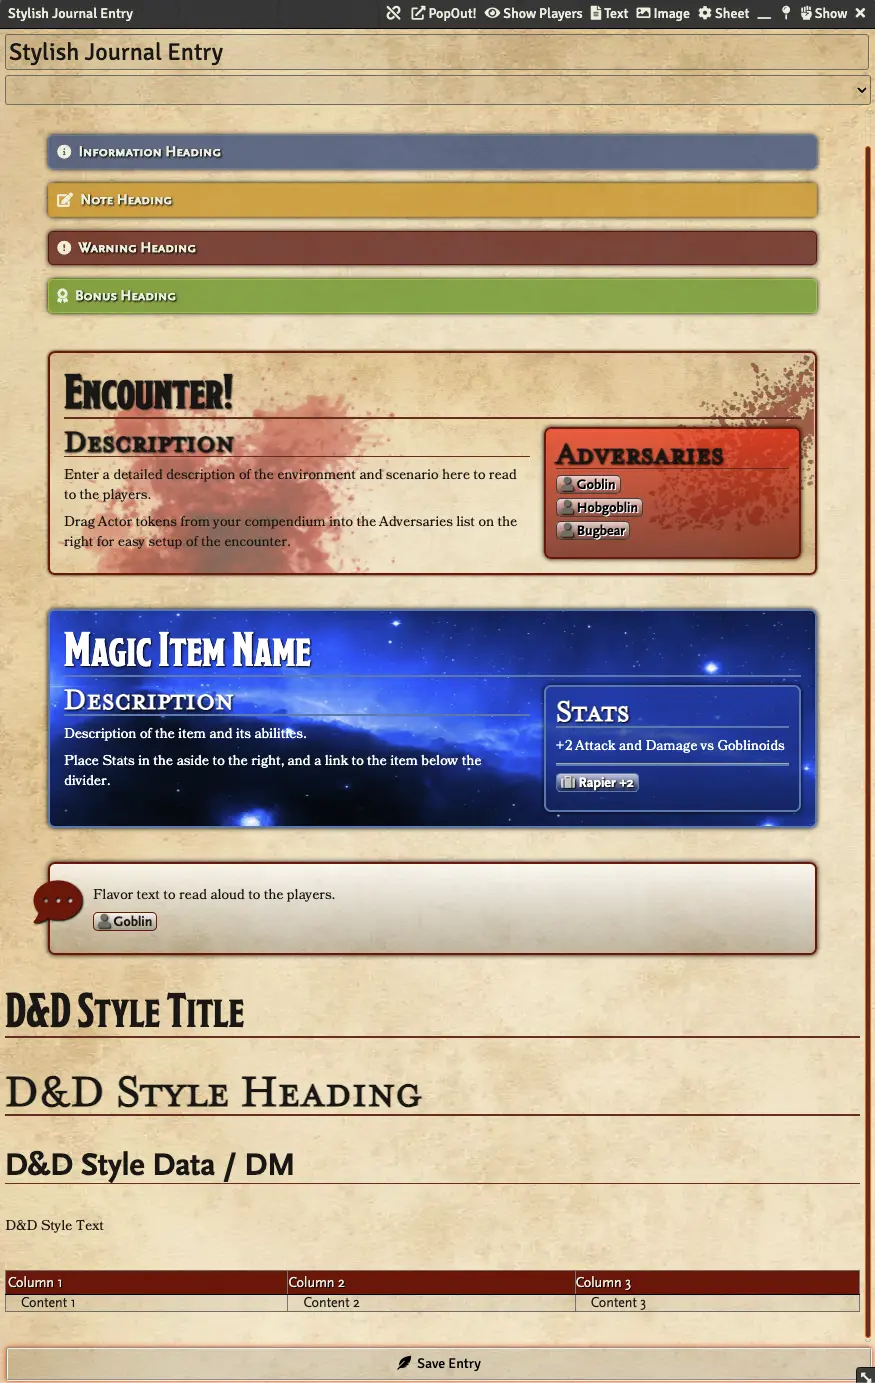
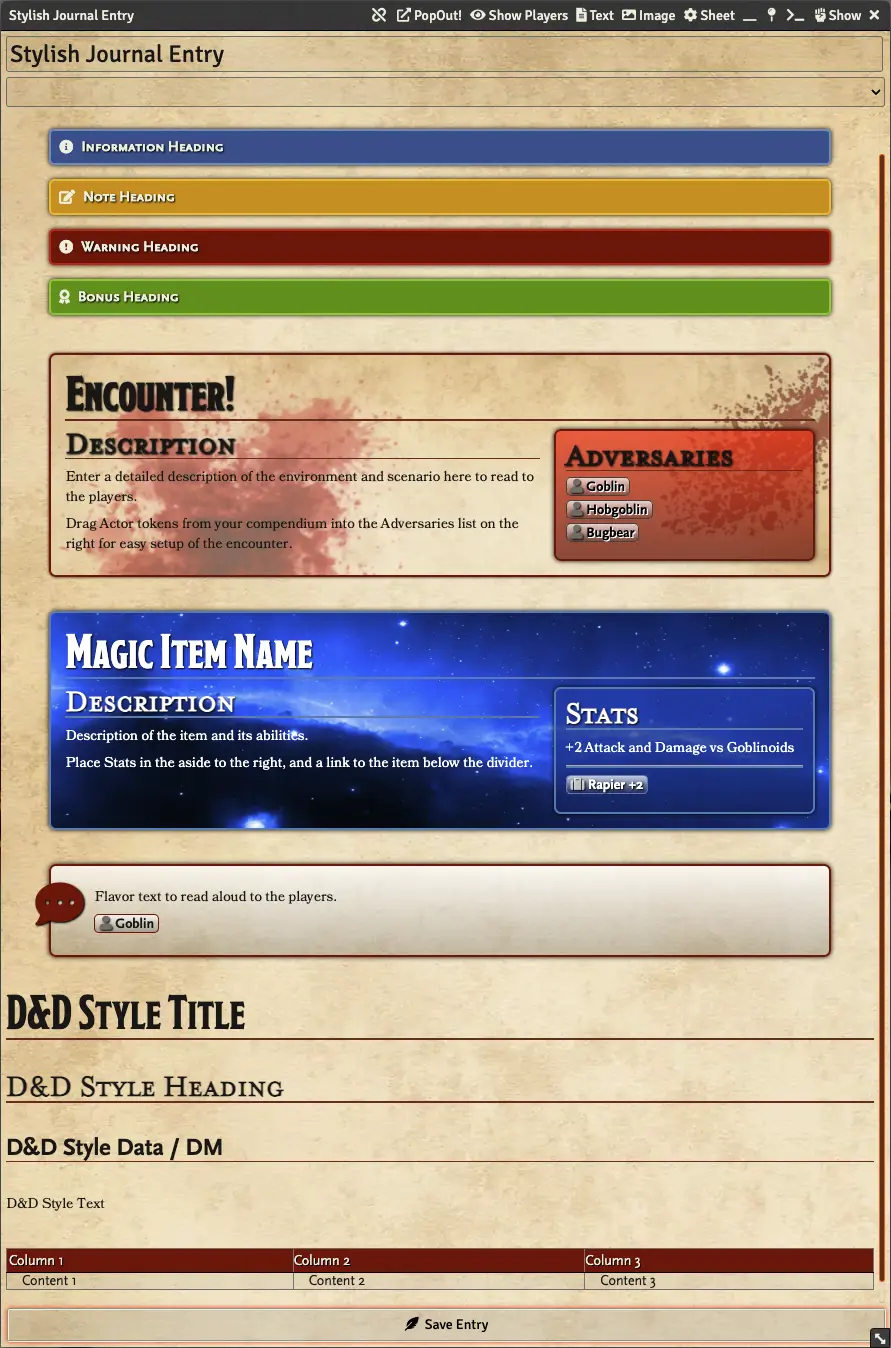
Parchment Setting, Vibrant Panels, Localization Start, Stlyish Text names update, minor bug fixes.

diff --git a/scripts/apsj.js b/scripts/apsj.js
@@ -1,39 +1,72 @@
 Hooks.on('init', () => {
+    game.settings.register('apsj', 'apsjEnableParchment', {
+        name: game.i18n.format('APSJ.menuEnableParchmentName'),
+        hint: game.i18n.format('APSJ.menuEnableParchmentHint'),
+        scope: 'client',
+        config: true,
+        default: true,
+        type: Boolean,
+        onChange: () => window.location.reload(),
+    });
+
+    // game.settings.register('apsj', 'apsjTitleSize', {
+    //     name: game.i18n.format('APSJ.menuTitleSizeName'),
+    //     scope: 'world',
+    //     config: true,
+    //     type: Number,
+    //     default: '48',
+    // });
+
+    // game.settings.register('apsj', 'apsjHeadingSize', {
+    //     name: game.i18n.format('APSJ.menuHeadingSizeName'),
+    //     scope: 'world',
+    //     config: true,
+    //     type: Number,
+    //     default: '36',
+    // });
+
     CONFIG.TinyMCE.plugins =
         ' advlist lists searchreplace textpattern template image table hr code save link';
 
     CONFIG.TinyMCE.toolbar =
         'styleselect fontselect fontsizeselect forecolor backcolor | bullist numlist image table hr link | removeformat template code | save';
 
-    CONFIG.TinyMCE.content_css.push('modules/apsj4mej/styles/apsj4mej.css');
+    CONFIG.TinyMCE.content_css.push('modules/apsj/styles/apsj.css');
 });
 
 Hooks.on('ready', () => {
+    if (game.settings.get('apsj', 'apsjEnableParchment')) {
+        var css =
+                '.journal-sheet form.editable { background-image: url(modules/apsj/assets/parchment.webp); }',
+            head = document.head,
+            style = document.createElement('style');
+
+        head.appendChild(style);
+
+        style.type = 'text/css';
+        style.appendChild(document.createTextNode(css));
+    }
+
     CONFIG.TinyMCE.style_formats.push({
         title: 'Stylish Text',
         items: [
             {
-                title: 'D&D Title',
+                title: 'Stylish Heading (Title)',
                 selector: 'h1,h2,h3,h4,h5,h6,th',
                 classes: 'dnd-title',
             },
             {
-                title: 'Adventure Title',
-                selector: 'h1,h2,h3,h4,h5,h6,th',
-                classes: 'adv-title',
-            },
-            {
-                title: 'D&D Heading',
+                title: 'Stylish Heading',
                 selector: 'h1,h2,h3,h4,h5,h6,th',
                 classes: 'dnd-heading',
             },
             {
-                title: 'D&D Data / DM',
+                title: 'Stylish Data',
                 selector: 'h1,h2,h3,h4,h5,h6,th',
                 classes: 'dnd-data',
             },
             {
-                title: 'D&D Text',
+                title: 'Stylish Paragraph',
                 selector: 'p,td',
                 classes: 'dnd-text',
             },
@@ -86,6 +119,4 @@ Hooks.on('ready', () => {
             content: `<section class="block read-aloud"><main><div class="icon"></div><p>Flavor text to read aloud to the players.</p></main></section>`,
         }
     );
-
-    CONFIG.TinyMCE.content_css.push('modules/apsj/styles/apsj.css');
 });

diff --git a/styles/apsj.css b/styles/apsj.css
@@ -1,7 +1,7 @@
 :root {
     --color-apsj-base-border: rgba(128, 0, 0, 1);
     --color-apsj-base-background: rgba(128, 0, 0, 0.75);
-    --color-apsj-magic-border: rgba(92, 135, 185, 1);
+    --color-apsj-magic-border: rgb(92, 135, 185);
     --color-apsj-light-background: rgba(255, 255, 255, 0.75);
     --color-apsj-dark-background: rgba(64, 64, 64, 0.25);
 }
@@ -112,10 +112,6 @@
     background-image: url(../assets/parchment-medium.webp) !important;
 } */
 
-.editable {
-    background-image: url(../assets/parchment.webp);
-}
-
 .editor-content table tbody tr td {
     padding: 0 15px;
 }
@@ -131,30 +127,6 @@
 .editor-content {
     padding-right: 5px;
     overflow-x: hidden;
-}
-
-.editor-content h1 {
-    font-size: xxx-large;
-}
-
-.editor-content h2 {
-    font-size: xx-large;
-}
-
-.editor-content h3 {
-    font-size: x-large;
-}
-
-.editor-content h4 {
-    font-size: large;
-}
-
-.editor-content h5 {
-    font-size: medium;
-}
-
-.editor-content h6 {
-    font-size: small;
 }
 
 li > .entity-link {
@@ -216,7 +188,7 @@ a.inline-roll i {
 }
 
 .dnd-text {
-    font-family: 'Bookinsanity';
+    font-family: 'BookInsanity';
     font-weight: 400;
 }
 
@@ -252,8 +224,8 @@ a.inline-roll i {
 }
 
 .panel.info {
-    background: rgba(47, 80, 132, 0.75);
-    border: 1px solid var(--color-apsj-magic-border);
+    background: rgb(57, 90, 150);
+    border: 2px solid rgb(110, 150, 200);
 }
 
 .panel.info::before {
@@ -261,8 +233,8 @@ a.inline-roll i {
 }
 
 .panel.note {
-    background: rgba(214, 150, 0, 0.75);
-    border: 1px solid #d69e07;
+    background: rgb(214, 150, 0);
+    border: 2px solid #f6be07;
 }
 
 .panel.note::before {
@@ -270,8 +242,8 @@ a.inline-roll i {
 }
 
 .panel.warning {
-    background: rgba(105, 0, 8, 0.75);
-    border: 1px solid #750003;
+    background: rgb(128, 0, 0);
+    border: 2px solid #d00000;
 }
 
 .panel.warning::before {
@@ -279,8 +251,8 @@ a.inline-roll i {
 }
 
 .panel.bonus {
-    background: rgba(101, 155, 0, 0.75);
-    border: 1px solid #8ad304;
+    background: rgb(101, 155, 0);
+    border: 2px solid #8ad304;
 }
 
 .panel.bonus::before {
@@ -330,7 +302,7 @@ a.inline-roll i {
 }
 
 .block p {
-    font-family: 'Bookinsanity';
+    font-family: 'BookInsanity';
     font-weight: 400;
 }
 

diff --git a/CHANGELOG.md b/CHANGELOG.md
@@ -1,5 +1,14 @@
 # RELEASE NOTES
 
+## Version 1.2.0 - Parchment Setting
+
+-   Added a setting to enable/disable the parchment background (Thanks KSMI for the request)
+-   Made the panels more vibrant so they stand out more
+-   Removed a leftover from another project. Whooops! (Thanks SecretSquirrel77 for pointing it out)
+-   Fixed more font naming (Thanks SecretSquirrel77 for pointing it out)
+-   Added localization for the settings panel
+-   Modified the names of the Stylish Text to be more in line with standard naming conventions (Thanks weepingminotaur for the idea)
+
 ## Version 1.1.0 - Tweak The Things
 
 -   Styled Entity Links
